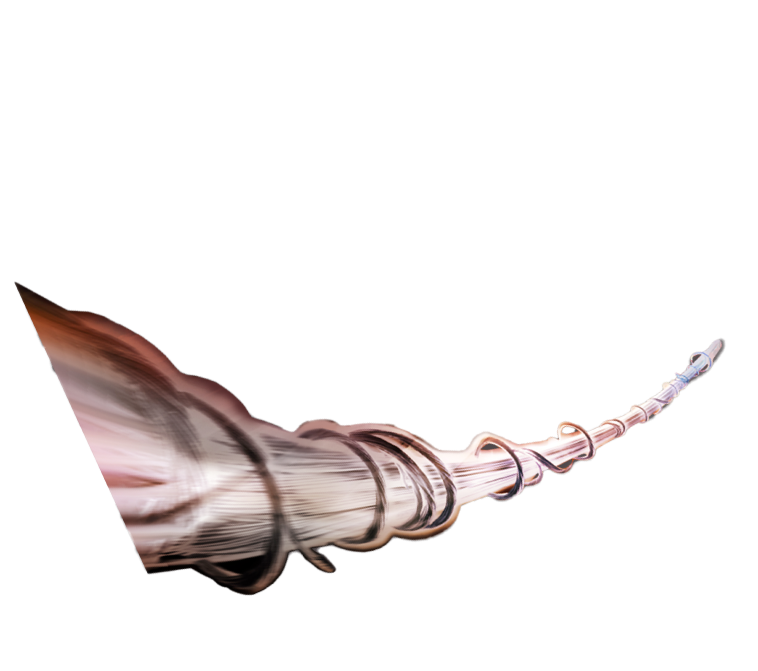
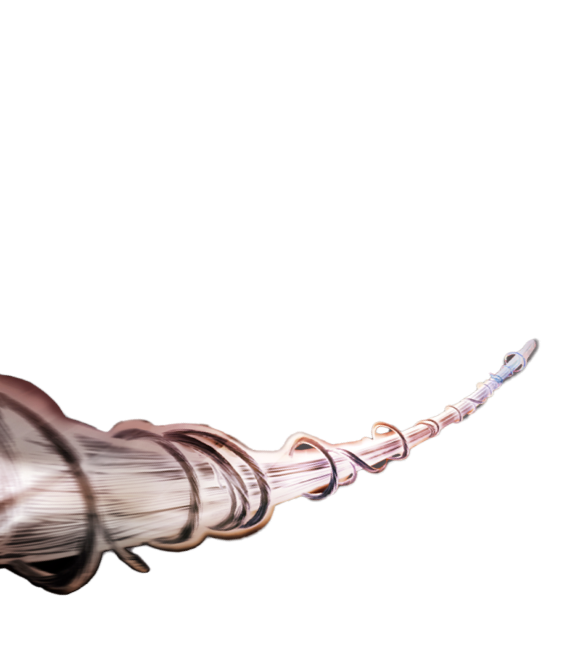
arreglo-telarañas

Changed region(s): [[0.0, 0.4173, 0.9808, 0.8942]]

diff --git a/tp4/css/style.css b/tp4/css/style.css
@@ -536,12 +536,12 @@ body{
 }
 .group-one #spiders-group-one #teladeaniaDerecha{
     position: absolute;
-    right: -149px;
+    right: 0px;
     top: 18px;
 }
 #teladeaniaIzquierda{
     position: absolute;
-    left: -181px;
+    left: 0px;
     top: 9px;
 }
 /******* grupo2 *******/
